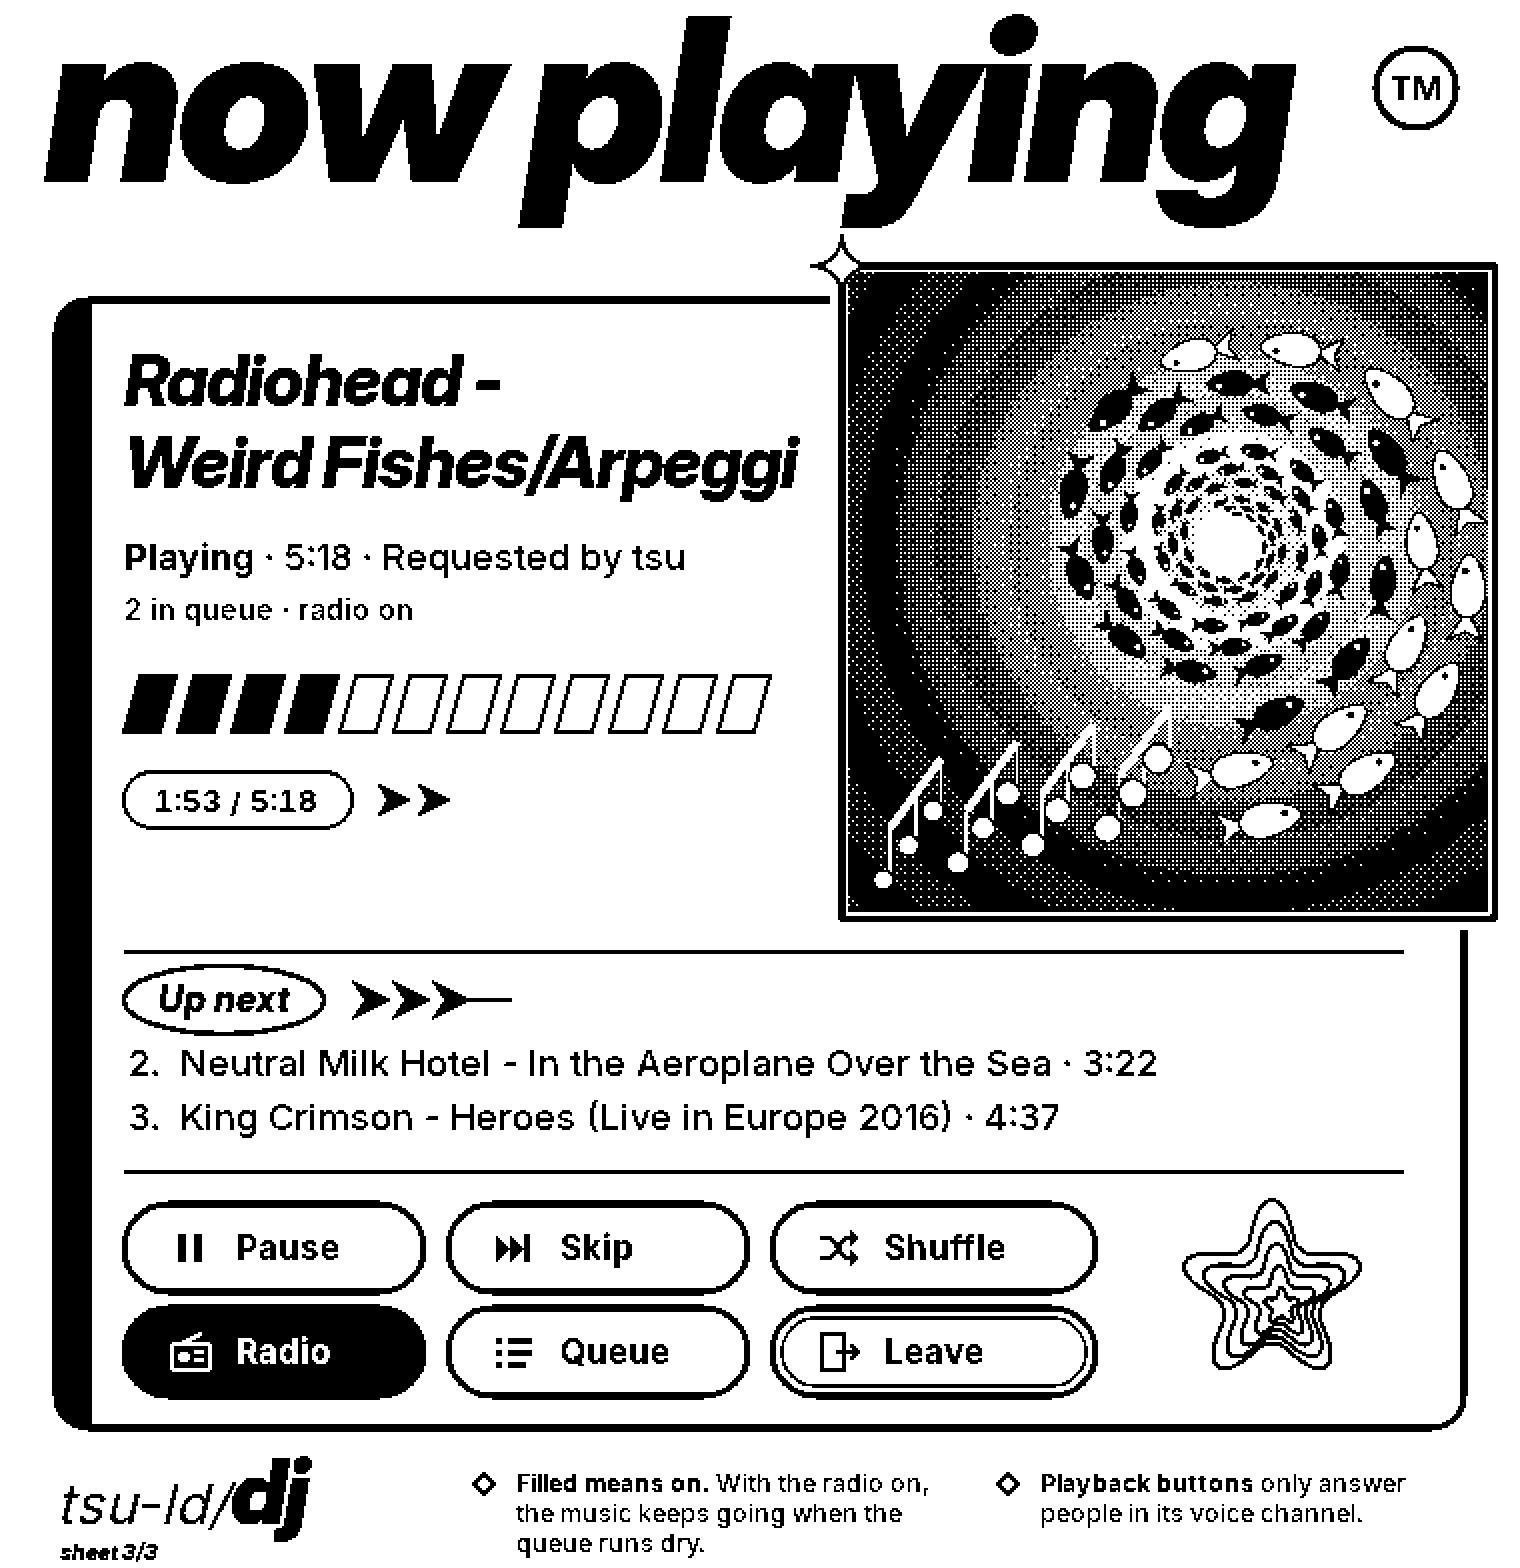
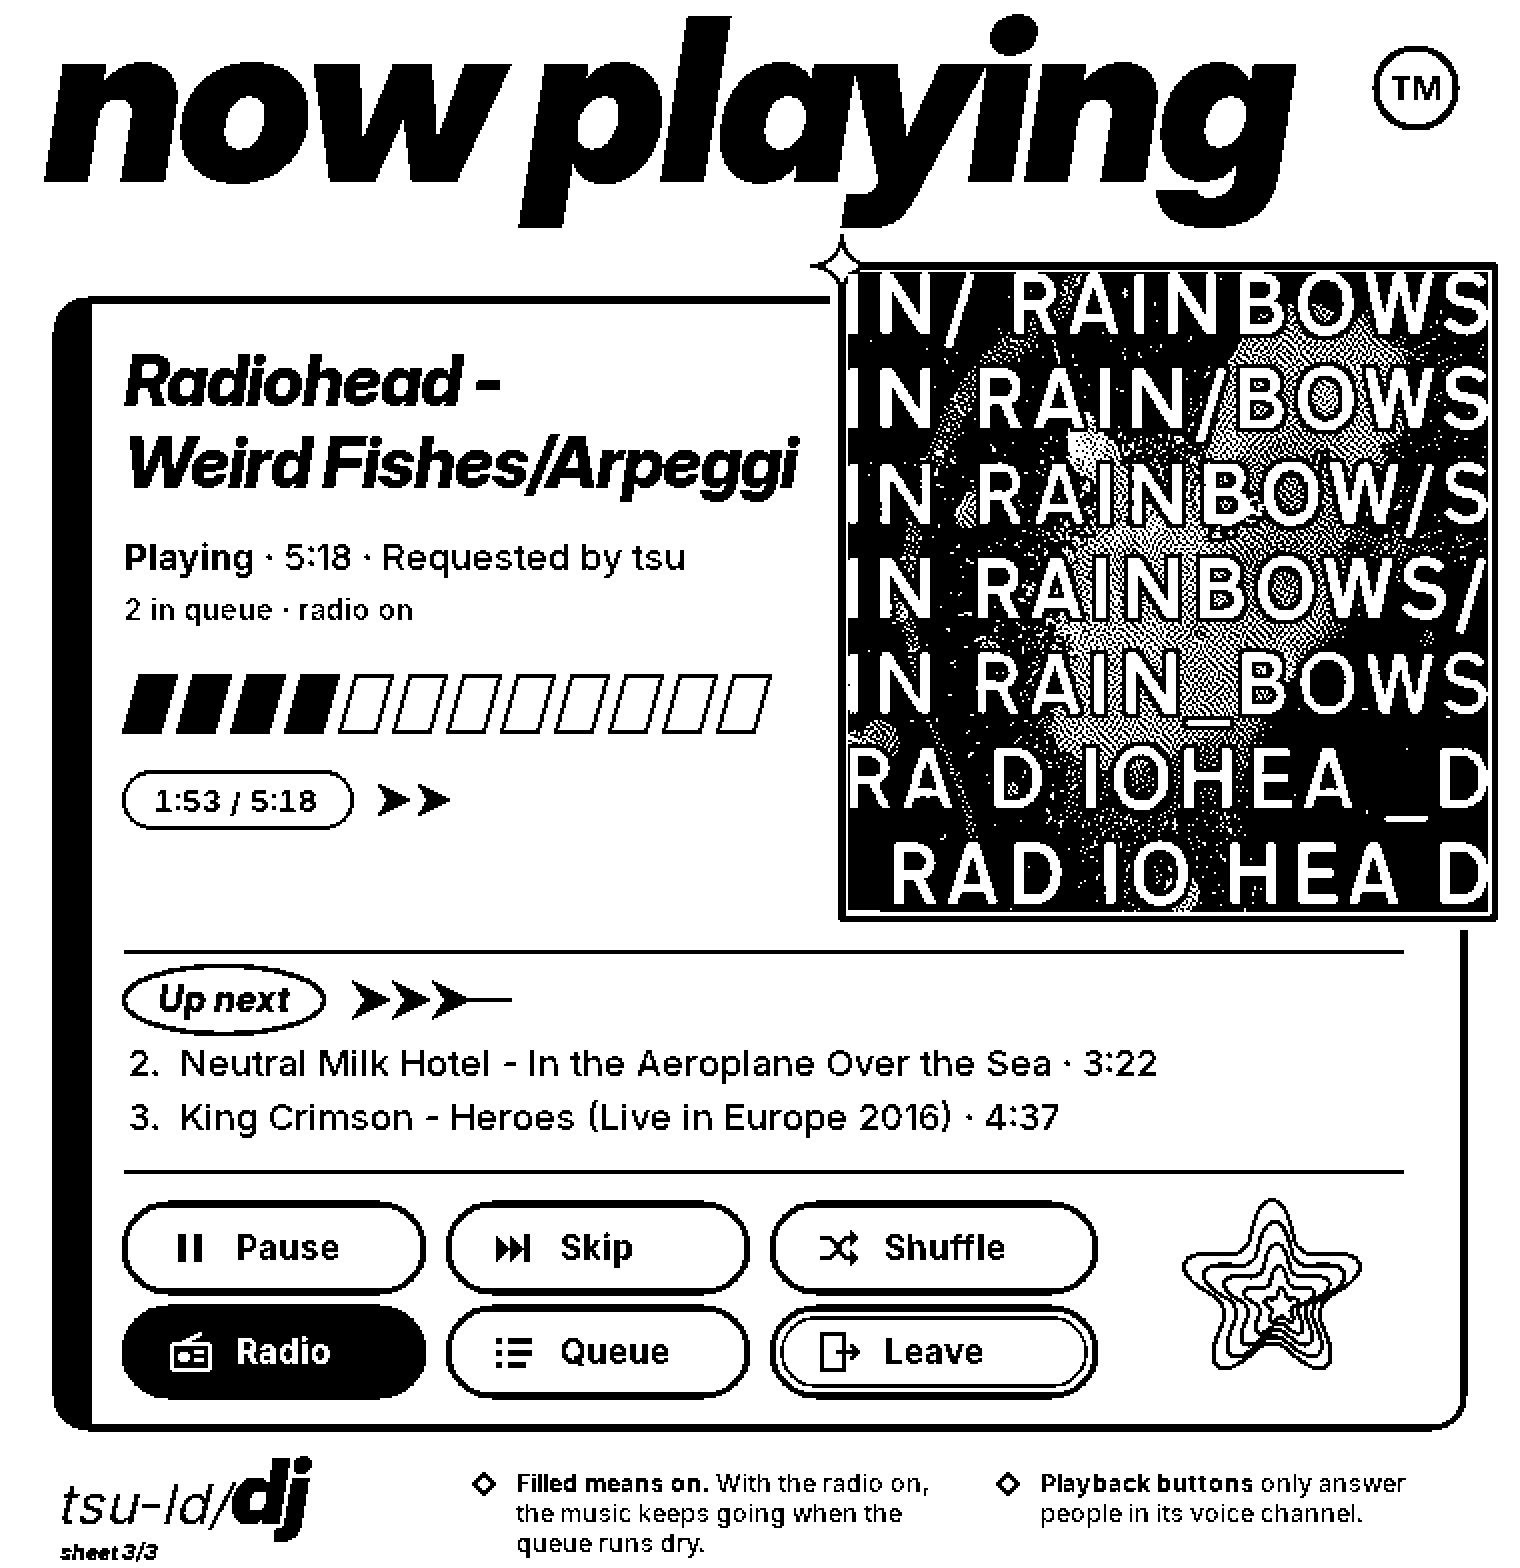
docs: show the in rainbows cover on the now-playing poster

Changed region(s): [[0.5566, 0.1562, 0.9895, 0.5938]]

diff --git a/README.md b/README.md
@@ -48,7 +48,7 @@ With a voice configured, the DJ speaks in the gap before a song starts. The song
 ### A card that keeps up
 
 <p align="center">
-  <img src="docs/assets/now-playing.png" alt="The now-playing card for Radiohead's Weird Fishes/Arpeggi: status, a progress bar, the next two songs and buttons for pause, skip, shuffle, radio, queue and leave, beside an original dithered spiral of fish" width="760">
+  <img src="docs/assets/now-playing.png" alt="The now-playing card for Radiohead's Weird Fishes/Arpeggi: status, a progress bar, the next two songs and buttons for pause, skip, shuffle, radio, queue and leave, beside a dithered In Rainbows cover" width="760">
 </p>
 
 One card per server shows:
